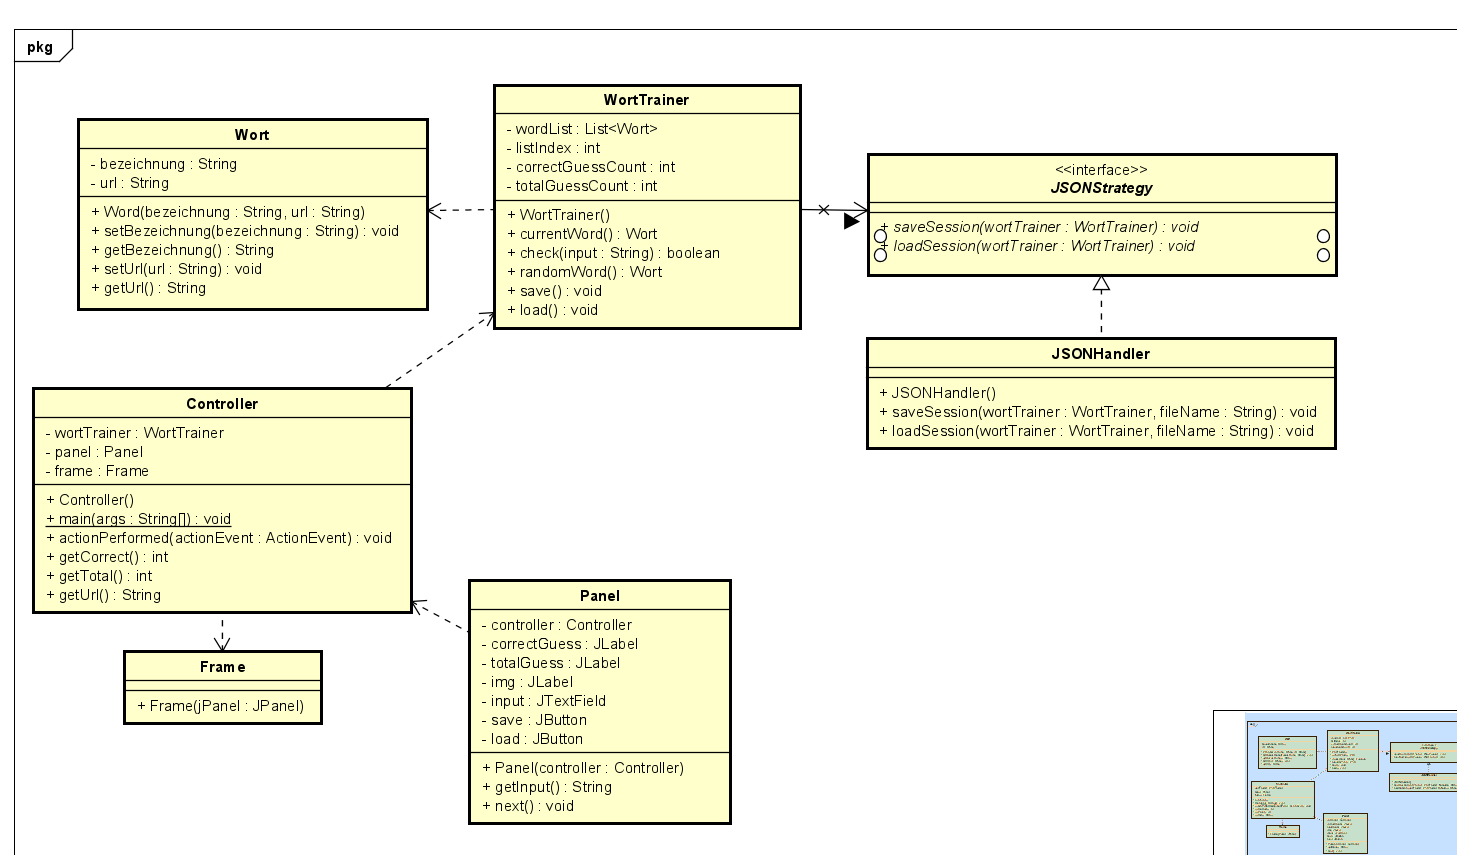
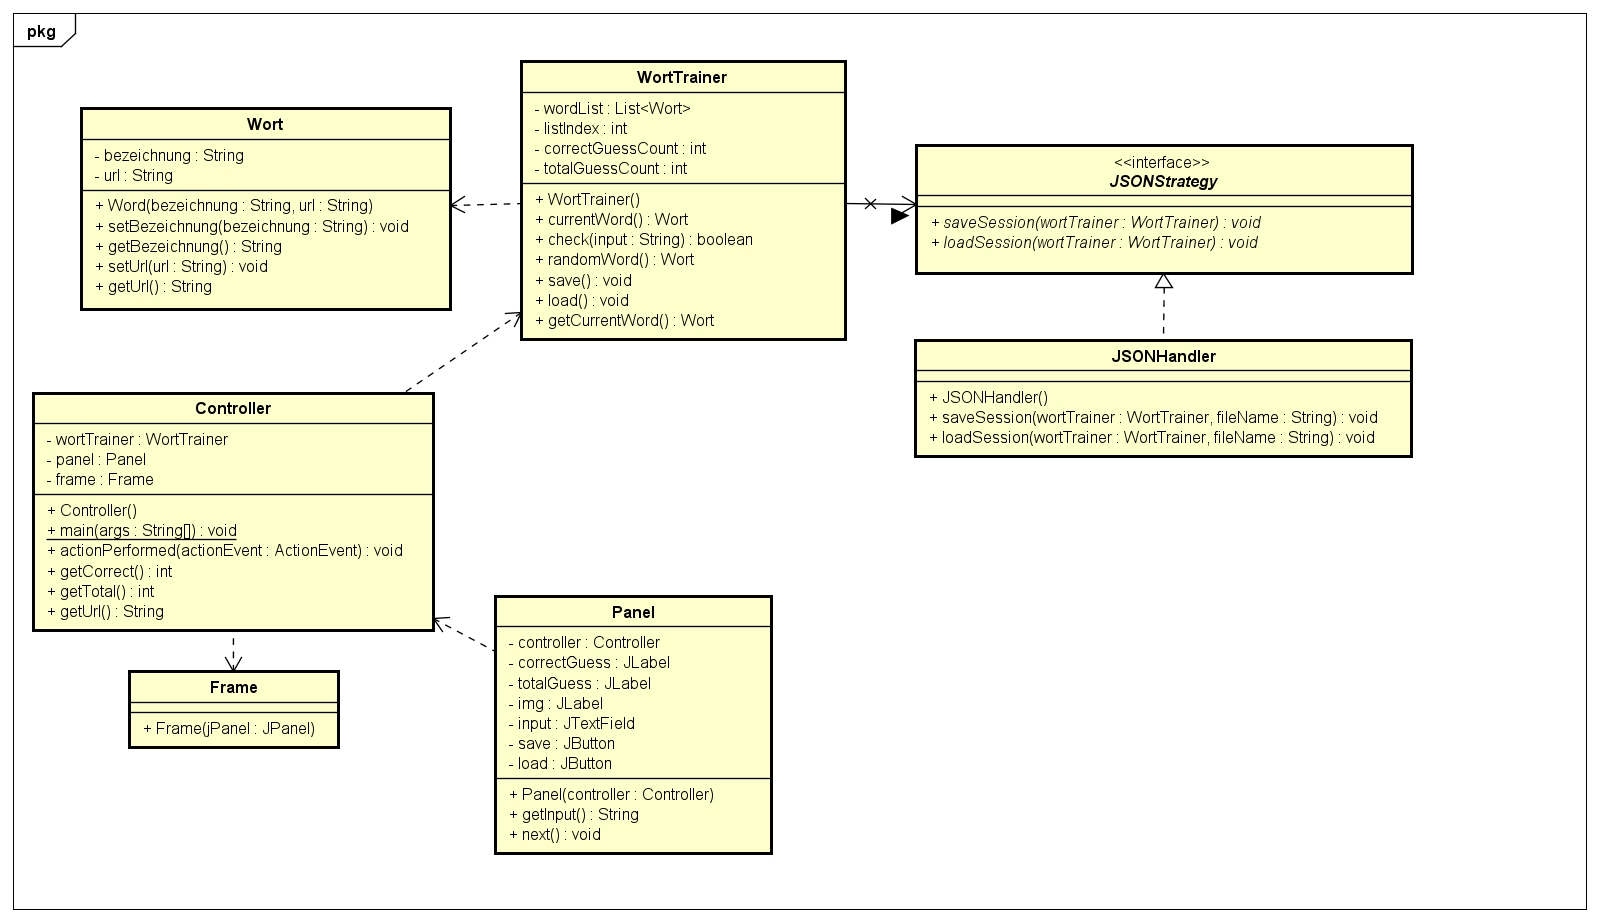
Controller und Panel-Klassen erstellt und überflüssige Methoden aus WortTrainer entfernt

diff --git a/src/main/java/at/nredl/view/Panel.java b/src/main/java/at/nredl/view/Panel.java
@@ -1,6 +1,11 @@
 package at.nredl.view;
 
+import at.nredl.controller.Controller;
+
 import javax.swing.*;
+import java.awt.*;
+import java.net.MalformedURLException;
+import java.net.URL;
 
 /**
  * Die Panel-Klasse
@@ -8,5 +13,75 @@ import javax.swing.*;
  * 06-10-2024
  */
 public class Panel extends JPanel {
+    private Controller controller;
+    private JLabel correctGuess, totalGuess, img;
+    private JTextField input;
+    private JButton save, load;
+    private String url;
 
+    public Panel(Controller controller) throws MalformedURLException {
+        this.controller = controller;
+        this.url = controller.getUrl();
+
+        this.setLayout(new BorderLayout());
+
+        JPanel top = new JPanel();
+        top.setLayout(new GridLayout(2,1));
+        JLabel frage = new JLabel("Welches Wort wird dargestellt?");
+        frage.setHorizontalAlignment(JLabel.LEFT);
+        top.add(frage);
+        this.input = new JTextField();
+        top.add(input);
+        this.add(top, BorderLayout.PAGE_START);
+
+        JPanel center = new JPanel();
+        center.setLayout(new GridLayout(1,1));
+        Image image = new ImageIcon(new URL(this.url)).getImage().getScaledInstance(200, 200, Image.SCALE_SMOOTH);
+        this.img = new JLabel(new ImageIcon(image));
+        center.add(img);
+        this.add(center, BorderLayout.CENTER);
+
+        JPanel bottom = new JPanel();
+        bottom.setLayout(new GridLayout(3,2));
+        JLabel textTotal = new JLabel("Gesamtversuche:");
+        JLabel textCorrect = new JLabel("Richtige Versuche:");
+        this.correctGuess = new JLabel(String.valueOf(this.controller.getCorrect()));
+        this.totalGuess = new JLabel(String.valueOf(this.controller.getTotal()));
+        bottom.add(textTotal);
+        bottom.add(textCorrect);
+        bottom.add(totalGuess);
+        bottom.add(correctGuess);
+        this.save = new JButton("Speichern");
+        this.load = new JButton("Laden");
+        bottom.add(save);
+        bottom.add(load);
+
+        this.add(bottom, BorderLayout.PAGE_END);
+
+        this.input.addActionListener(this.controller);
+        this.input.setActionCommand("input");
+        this.save.addActionListener(this.controller);
+        this.save.setActionCommand("save");
+        this.load.addActionListener(this.controller);
+        this.load.setActionCommand("load");
+
+    }
+
+    public String getInput() {
+        return this.input.getText();
+    }
+
+    public void next(String url) throws MalformedURLException {
+        this.input.setText("");
+        this.totalGuess.setText(String.valueOf(this.controller.getTotal()));
+        this.correctGuess.setText(String.valueOf(this.controller.getCorrect()));
+        this.url = url;
+        ImageIcon imageIcon = new ImageIcon(new URL(this.url));
+        Image image = imageIcon.getImage().getScaledInstance(200,200,Image.SCALE_SMOOTH);
+        this.img = new JLabel(new ImageIcon(image));
+        JPanel center = new JPanel();
+        center.setLayout(new GridLayout(1,1));
+        center.add(img);
+        this.add(center, BorderLayout.CENTER);
+    }
 }

diff --git a/src/main/java/at/nredl/controller/Controller.java b/src/main/java/at/nredl/controller/Controller.java
@@ -1,0 +1,70 @@
+package at.nredl.controller;
+
+import at.nredl.model.WortTrainer;
+import at.nredl.view.Frame;
+import at.nredl.view.Panel;
+
+import java.awt.event.ActionEvent;
+import java.awt.event.ActionListener;
+import java.net.MalformedURLException;
+import java.util.Objects;
+
+public class Controller implements ActionListener {
+    private WortTrainer wortTrainer;
+    private Panel panel;
+    private Frame frame;
+
+    public Controller() {
+        this.wortTrainer = new WortTrainer();
+        try {
+            this.panel = new Panel(this);
+        } catch(MalformedURLException mue) {
+            mue.printStackTrace();
+        }
+        this.frame = new Frame(this.panel);
+    }
+
+    public static void main(String[] args) {
+        new Controller();
+    }
+
+    @Override
+    public void actionPerformed(ActionEvent e) {
+        String actionCommand = e.getActionCommand();
+        if(Objects.equals(actionCommand, "save")) {
+            this.wortTrainer.save();
+        }
+        else if (Objects.equals(actionCommand, "load")) {
+            this.wortTrainer.load();
+            try {
+                this.panel.next(this.wortTrainer.getCurrentWord().getUrl());
+            } catch (MalformedURLException ex) {
+                throw new RuntimeException(ex);
+            }
+        }
+        else if (Objects.equals(actionCommand, "input")) {
+            this.wortTrainer.setTotalGuessCount(this.wortTrainer.getTotalGuessCount()+1);
+            if(this.wortTrainer.check(this.panel.getInput())) {
+                this.wortTrainer.setCorrectGuessCount(this.wortTrainer.getCorrectGuessCount()+1);
+            }
+            this.wortTrainer.newIndex();
+            try {
+                this.panel.next(this.wortTrainer.getCurrentWord().getUrl());
+            } catch (MalformedURLException ex) {
+                throw new RuntimeException(ex);
+            }
+        }
+    }
+
+    public int getCorrect() {
+        return this.wortTrainer.getCorrectGuessCount();
+    }
+
+    public int getTotal() {
+        return this.wortTrainer.getTotalGuessCount();
+    }
+
+    public String getUrl() {
+        return this.wortTrainer.getCurrentWord().getUrl();
+    }
+}

diff --git a/src/main/java/at/nredl/model/WortTrainer.java b/src/main/java/at/nredl/model/WortTrainer.java
@@ -63,12 +63,7 @@ public class WortTrainer {
     }
 
     public boolean check(String input) {
-       totalGuessCount++;
-       boolean b = input.equalsIgnoreCase(currentWord().getWort());
-       if(b) {
-           correctGuessCount++;
-       }
-       return b;
+       return input.equalsIgnoreCase(currentWord().getBezeichnung());
     }
 
     public void setListIndex(int listIndex) {
@@ -82,18 +77,19 @@ public class WortTrainer {
         return this.listIndex;
     }
 
-    public Wort randomWord() {
-        if(wordList.isEmpty()) {
-            throw new IllegalArgumentException("Die Wortliste darf nicht leer sein wenn Sie ein zufälliges Wort wollen.");
-        }
-        return wordList.get(new Random().nextInt(wordList.size()));
-    }
-
     public void save() {
         this.jsonHandler.saveSession(this);
     }
 
     public void load() {
         this.jsonHandler.loadSession(this);
+    }
+
+    public Wort getCurrentWord() {
+        return this.wordList.get(this.listIndex);
+    }
+
+    public void newIndex() {
+        this.listIndex = new Random().nextInt(wordList.size());
     }
 }

diff --git a/src/test/java/WortTrainerTest.java b/src/test/java/WortTrainerTest.java
@@ -27,7 +27,7 @@ public class WortTrainerTest {
         newWordList.add(new Wort("Maus", "http://example.com/maus.jpg"));
         wortTrainer.setWordList(newWordList);
         assertEquals(1, wortTrainer.getWordList().size());
-        assertEquals("Maus", wortTrainer.getWordList().get(0).getWort());
+        assertEquals("Maus", wortTrainer.getWordList().get(0).getBezeichnung());
     }
 
     @Test
@@ -66,13 +66,6 @@ public class WortTrainerTest {
         assertFalse(wortTrainer.check("Katze"));
         assertEquals(0, wortTrainer.getCorrectGuessCount());
         assertEquals(1, wortTrainer.getTotalGuessCount());
-    }
-
-    @Test
-    void testRandomWord() {
-        Wort randomWord = wortTrainer.randomWord();
-        assertNotNull(randomWord);
-        assertTrue(wortTrainer.getWordList().contains(randomWord));
     }
 
     @Test

diff --git a/src/test/java/WortTest.java b/src/test/java/WortTest.java
@@ -7,7 +7,7 @@ public class WortTest {
     @Test
     void testConstructorValid() {
         Wort wort = new Wort("Hund", "http://example.com/hund.jpg");
-        assertEquals("Hund", wort.getWort());
+        assertEquals("Hund", wort.getBezeichnung());
         assertEquals("http://example.com/hund.jpg", wort.getUrl());
     }
 
@@ -31,7 +31,7 @@ public class WortTest {
     void testSetValidBezeichnung() {
         Wort wort = new Wort("Hund", "http://example.com/hund.jpg");
         wort.setBezeichnung("Katze");
-        assertEquals("Katze", wort.getWort());
+        assertEquals("Katze", wort.getBezeichnung());
     }
 
     @Test

diff --git a/src/test/java/JSONTest.java b/src/test/java/JSONTest.java
@@ -52,7 +52,7 @@ public class JSONTest {
 
         assertEquals(originalWords.size(), loadedWords.size());
         for (int i = 0; i < originalWords.size(); i++) {
-            assertEquals(originalWords.get(i).getWort(), loadedWords.get(i).getWort());
+            assertEquals(originalWords.get(i).getBezeichnung(), loadedWords.get(i).getBezeichnung());
             assertEquals(originalWords.get(i).getUrl(), loadedWords.get(i).getUrl());
         }
     }

diff --git a/src/main/java/at/nredl/model/JSONHandler.java b/src/main/java/at/nredl/model/JSONHandler.java
@@ -30,7 +30,7 @@ public class JSONHandler implements JSONStrategy {
         JSONArray wordsArray = new JSONArray();
         for (Wort wort : wortTrainer.getWordList()) {
             JSONObject wordJson = new JSONObject();
-            wordJson.put("word", wort.getWort());
+            wordJson.put("word", wort.getBezeichnung());
             wordJson.put("url", wort.getUrl());
             wordsArray.put(wordJson);
         }

diff --git a/src/main/java/at/nredl/view/Frame.java b/src/main/java/at/nredl/view/Frame.java
@@ -11,8 +11,9 @@ public class Frame extends JFrame {
     public Frame(JPanel jPanel) {
         super("Worttrainer");
         this.add(jPanel);
-        this.setSize(540,960);
+        this.setSize(540,540);
         this.setDefaultCloseOperation(EXIT_ON_CLOSE);
         this.setLocationRelativeTo(null);
+        this.setVisible(true);
     }
 }

diff --git a/src/main/java/at/nredl/model/Wort.java b/src/main/java/at/nredl/model/Wort.java
@@ -31,7 +31,7 @@ public class Wort {
         this.bezeichnung = bezeichnung;
     }
 
-    public String getWort() {
+    public String getBezeichnung() {
         return this.bezeichnung;
     }
 
